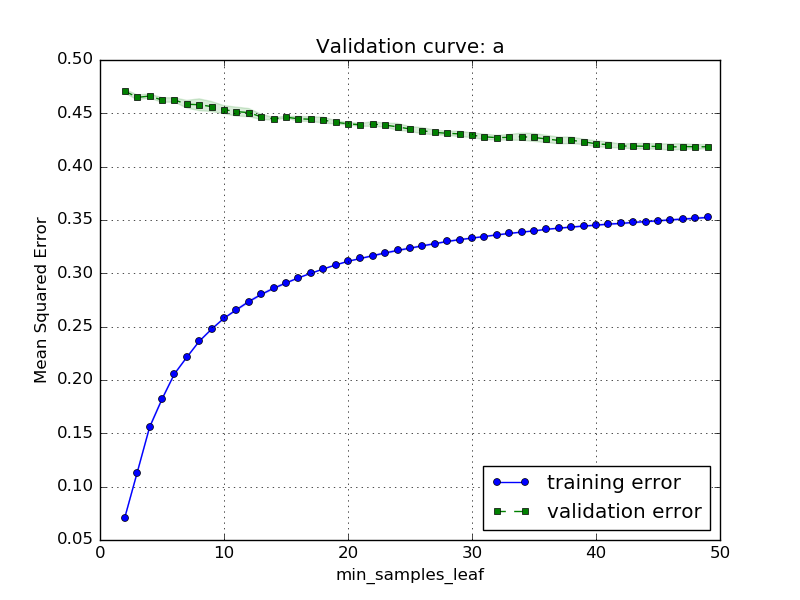
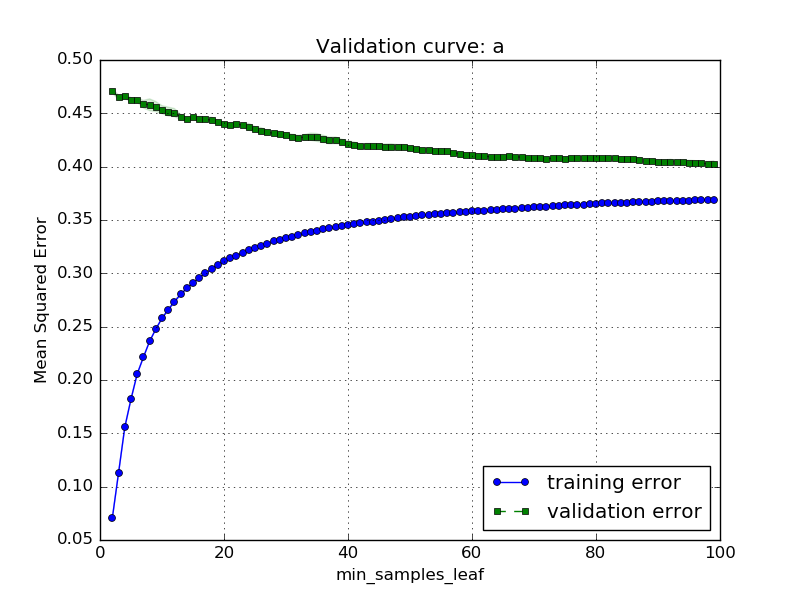
running

diff --git a/Assignment1/validation_curves.py b/Assignment1/validation_curves.py
@@ -50,7 +50,7 @@ X_train, X_test, y_train, y_test = train_test_split(x,
 params_dict = {'min_impurity_split': np.arange(0, 0.5, 0.01),
                'max_depth': np.arange(1, 100, 1),
                'min_samples_split': np.arange(1, 50, 1),
-               'min_samples_leaf': np.arange(2, 50, 1),
+               'min_samples_leaf': np.arange(2, 100, 1),
                'min_weight_fraction_leaf': np.arange(0.0, 0.5, 0.05),
                'max_leaf_nodes': np.arange(2, 50, 1)}
 #params_dict = {'min_impurity_split': np.arange(0, 0.5, 0.01)}
